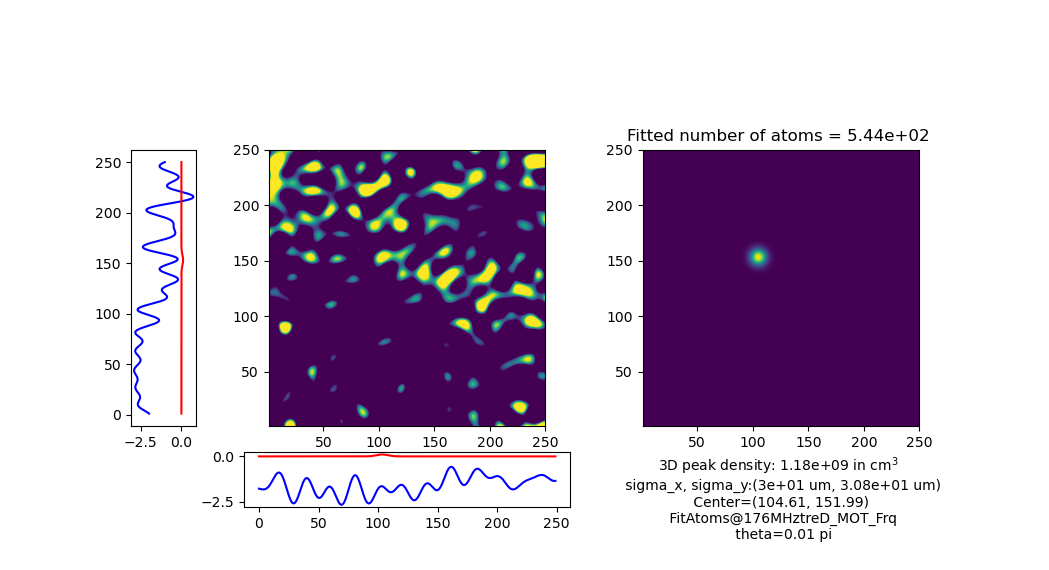
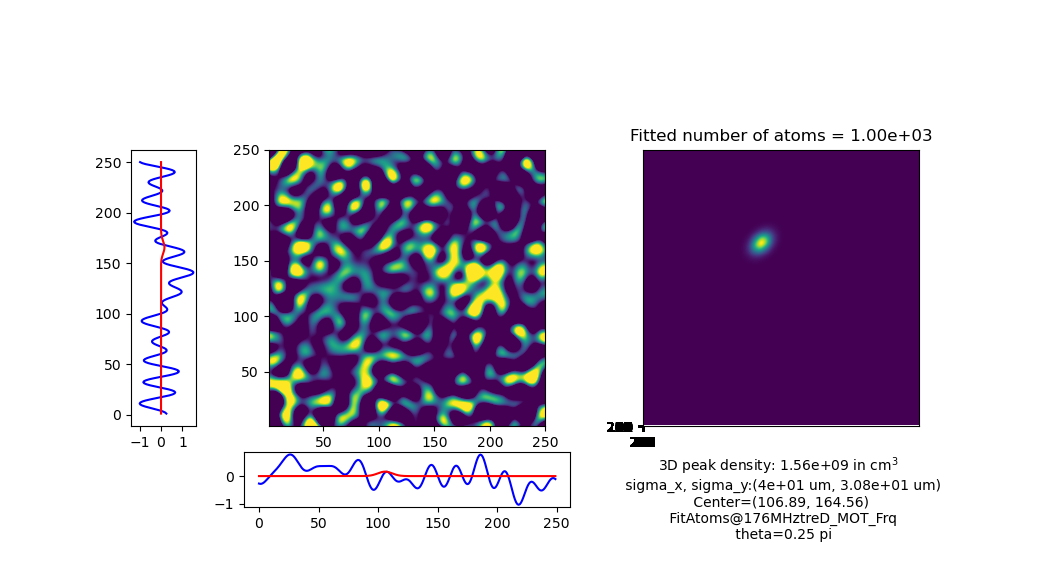
Routine push. Current issue: Engaging in runmanager causes blue laser to unlock

diff --git a/analysislib/AbsorbAnalyser.py b/analysislib/AbsorbAnalyser.py
@@ -84,7 +84,7 @@ if True: #functions definition
 
         return image_fft
 
-    def fit_gaussian(shot, value, RX, RY, data, scan_parameter, unity, n_2D):
+    def fit_gaussian(shot, value, RX, RY, data, scan_parameter, unity):
         # Define a 2D Gaussian function
         def gaussian_2d(xy, amplitude, xo, yo, sigma_x, sigma_y, theta):
             theta = theta * np.pi
@@ -162,18 +162,18 @@ if True: #functions definition
         n_3D=fitN_of_atoms/(sigma_x*sigma_y*sigma_z*(2*np.pi)**(3/2))*1e-6 #in cm^3
         n_3D2=Npeak/(sqrt(2*np.pi)*sigma_z*pixArea)*1e-6 #in cm^3
         # print(sigma_x)
-        # print(sigma_y)
         # print(fitN_of_atoms)
+        # print(sigma_y)
         # print(n_3D)
         # print(n_3D2)
 
-        name = str('Fitted number of atoms = %s ' % ("{:.2e}".format(fitN_of_atoms)))
-        plt.title(name)
+        ax[3].imshow(fitdata, cmap='viridis', vmin=0, vmax=amplitude, extent=(x.min(), x.max(), y.min(), y.max()))        
+        plt.title('Fitted number of atoms = {}'.format("{:.2e}".format(fitN_of_atoms)))
         picname = "FitAtoms@" + str(value) + unity + scan_parameter
         plt.xlabel(str('3D peak density: %s in cm$^3$  \n sigma_x, sigma_y:(%s um, %s um)\n Center=(%s, %s) \n %s\n theta=%s pi' %
                     ("{:.2e}".format(n_3D2), "{:.0e}".format(sigma_x*1e6), "{:.2e}".format(sigma_y*1e6),
                         round(xo * 100) / 100, round((RY - yo) * 100) / 100, str(picname), round(theta * 100) / 100)))
-        ax[3].imshow(fitdata, cmap='viridis', vmin=0, vmax=amplitude, extent=(x.min(), x.max(), y.min(), y.max()))
+
         # plt.colorbar()
         plt.savefig(picname + ".png")
         main_waist = sigma_x
@@ -282,7 +282,7 @@ if True: #functions definition
         ray=200       
 ######################
 
-scan_parameter='treD_MOT_Frq'
+scan_parameter='Red_MOT_Frq'
 unity='MHz'
 
 plotting=False #extra images
@@ -325,7 +325,6 @@ with Run(path).open('r+') as shot:
 
     optical_density = -1 *np.log((up/down))
     optical_density_FFT = image_fft(optical_density)
-    # optical_density = -1 *np.log((up/down)/intensity_correction)
     OD = optical_density_FFT[np.ix_(range(DY[0],DY[1]),range(DX[0],DX[1]))]
 
     if plotting:
@@ -341,9 +340,10 @@ with Run(path).open('r+') as shot:
     Ntot_sum = np.sum(N_2D) # Total number of atoms in the cloud from images
 
     print('atoms', Ntot_sum )
-    print(f"First-guessed number of atoms in the cloud: {Ntot_sum:.2e}")
+    print(f"First-guess number of atoms in the cloud: {Ntot_sum:.2e}")
     shot.save_result('number_of_atoms', Ntot_sum)
 
-    if gauss_fit: fit_gaussian(shot, data_frame[scan_parameter], RX, RY, OD, scan_parameter, unity, sum(n_2D))
+    if gauss_fit: fit_gaussian(shot, data_frame[scan_parameter], RX, RY, OD, scan_parameter, unity)
+    shot.save_result('scan_parameter', scan_parameter)
 
 saving_script(path)

diff --git a/analysislib/Multi_Analyser.py b/analysislib/Multi_Analyser.py
@@ -27,7 +27,7 @@ number_of_atoms=tuple(AbAnalyser['number_of_atoms'])
 peak_density=tuple(AbAnalyser['peak_density'])
 main_waist=tuple(AbAnalyser['main_waist'])
 
-parameter_name ='treD_MOT_Frq' #AbAnalyser['scan_parameter'].iloc[-1]
+parameter_name =AbAnalyser['scan_parameter']
 
 print('optimization parameter =', parameter_name)
 parameter=np.array(df[parameter_name])
